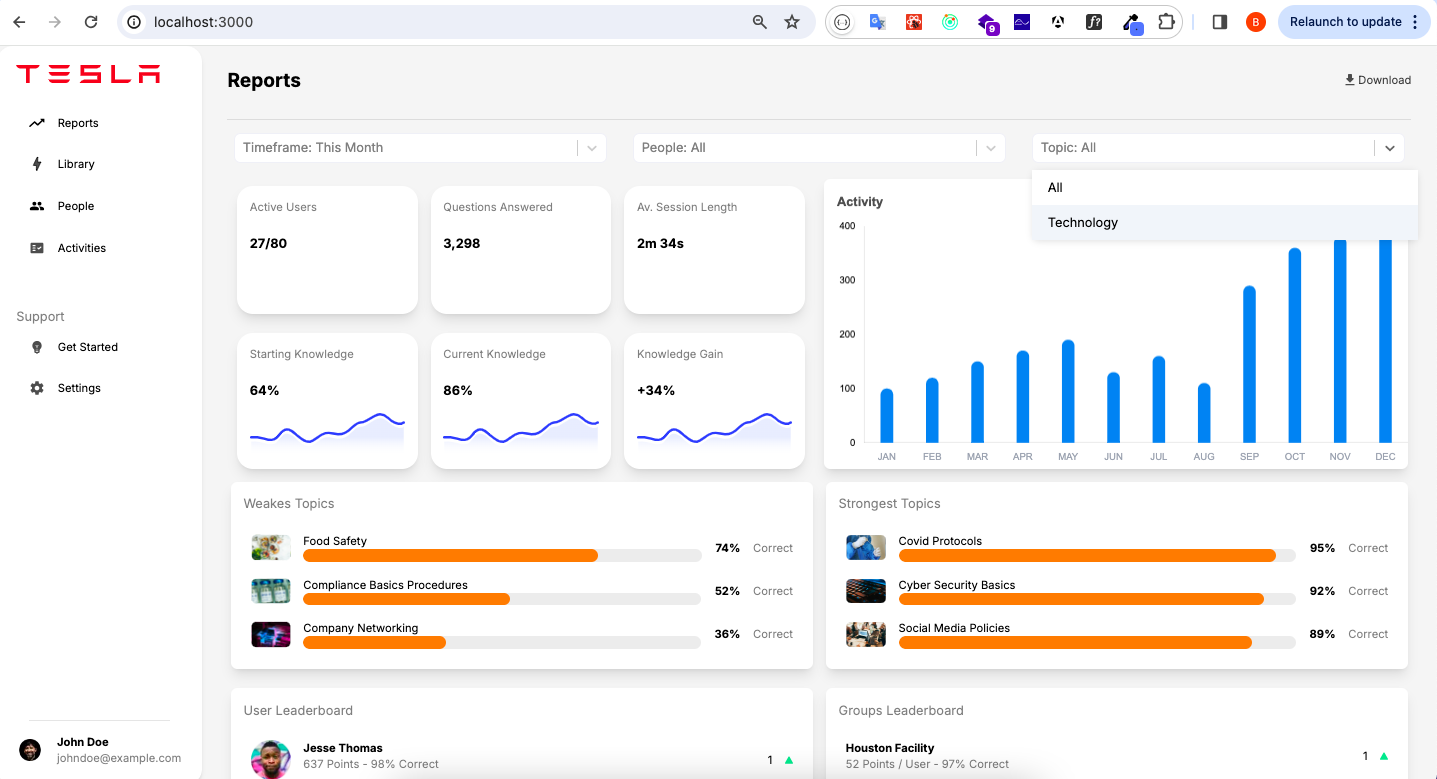
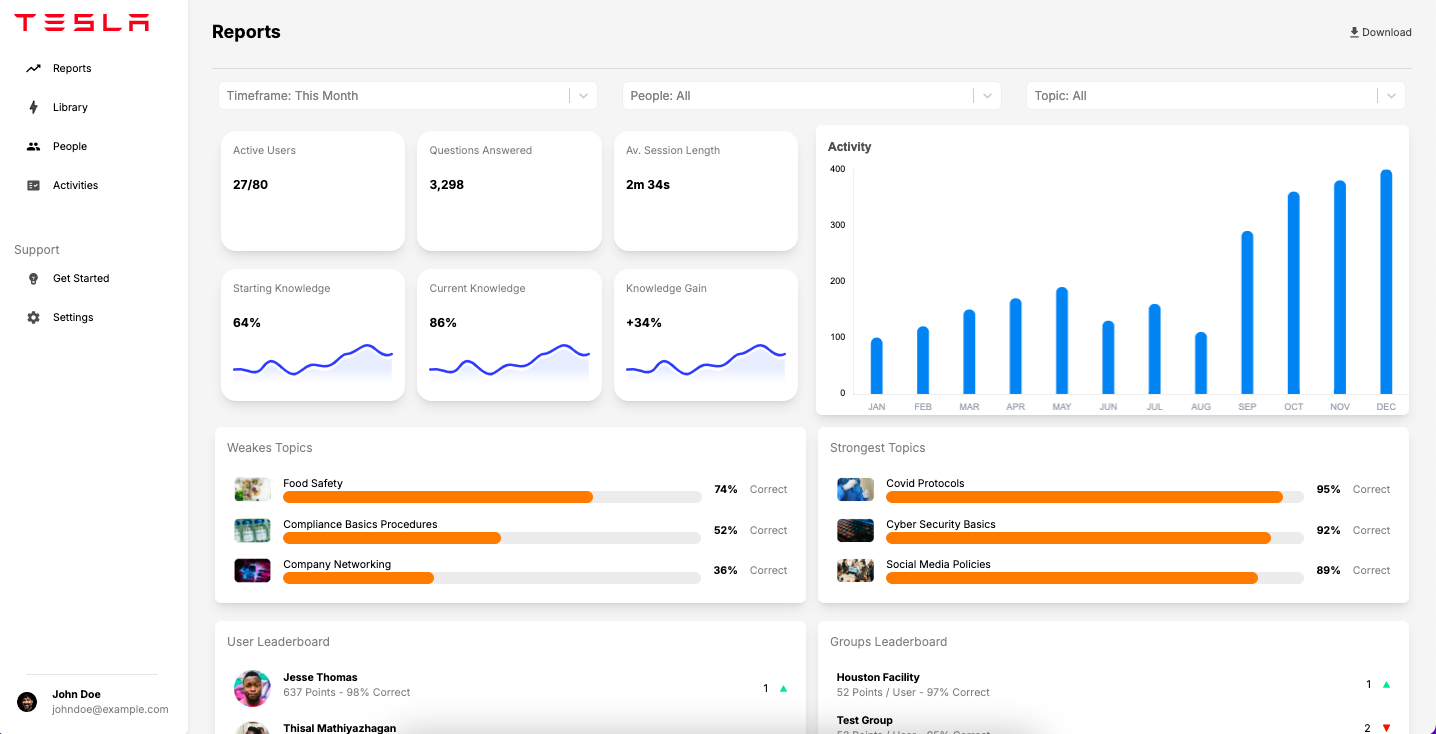
image changed, readme file updated

diff --git a/src/app/page.tsx b/src/app/page.tsx
@@ -5,7 +5,6 @@ import { components } from 'react-select';
 import Image from "next/image";
 import dynamic from 'next/dynamic';
 
-import Navbar from "../../components/navbar";
 import MiniCard from '../../components/mini-card';
 import Groups from '../../components/groups';
 import { BarChart } from '../../components/activity-chart';
@@ -25,6 +24,7 @@ export default function Home(this: any) {
   const [weakestTopics, setWeakestTopics] = useState<Topic[]>([]);
   const [weakestLoading, setWeakestLoading] = useState<boolean>(true);
   const [weakestError, setWeakestError] = useState<string | null>(null);
+  const [showMenu, setShowMenu] = useState(false);
 
   const options = [
     { value: 'lastSevenDays', label: 'Last 7 Days' },
@@ -133,11 +133,152 @@ export default function Home(this: any) {
     }
   };
 
+  useEffect(() => {
+    if (showMenu) {
+      document.body.style.overflow = 'hidden';
+      document.body.style.position = 'fixed';
+      document.body.style.width = '100%';
+      document.body.style.backgroundColor = 'gray'
+    } else {
+      document.body.style.overflow = 'auto';
+      document.body.style.position = '';
+      document.body.style.width = '';
+      document.body.style.backgroundColor = ''
+    }
+  }, [showMenu]);
+
   return (
     <main className="flex flex-col">
       <div className="flex min-h-screen">
         {/* Left NavBar */}
-        <Navbar />
+        <nav className="hidden md:block w-64 h-screen bg-white shadow-md fixed text-black rounded-lg">
+        <div className="flex flex-col align-start h-full justify-between p-6">
+          <div>
+            <Image src="/icon.svg" width={180} height={24} alt="Tesla" />
+            <ul className="mt-8 space-y-4 mb-8">
+              <li className="p-2 flex pl-4 rounded hover:bg-regal-blue/10 hover:text-regal-blue cursor-pointer">
+                <div className="flex">
+                  <img src="/icons/vector.svg" alt="Reports" className="h-5 w-5" />
+                  <a href="#" className="pl-4 text-sm">Reports</a>
+                </div>
+              </li>
+              <li className="p-2 flex pl-4 rounded hover:bg-regal-blue/10 hover:text-regal-blue cursor-pointer">
+                <div className="flex">
+                  <img src="/icons/quiz.svg" alt="Library" className="h-5 w-5" />
+                  <a href="#" className="pl-4 text-sm">Library</a>
+                </div>
+              </li>
+              <li className="p-2 flex pl-4 rounded hover:bg-regal-blue/10 hover:text-regal-blue cursor-pointer">
+                <div className="flex">
+                  <img src="/icons/people.svg" alt="People" className="h-5 w-5" />
+                  <a href="#" className="pl-4 text-sm">People</a>
+                </div>
+              </li>
+              <li className="p-2 flex pl-4 rounded hover:bg-regal-blue/10 hover:text-regal-blue cursor-pointer">
+                <div className="flex">
+                  <img src="/icons/assignments.svg" alt="Activities" className="h-5 w-5" />
+                  <a href="#" className="pl-4 text-sm">Activities</a>
+                </div>
+              </li>
+            </ul>
+
+            <h5 className="pt-6 text-black/50">Support</h5>
+            <ul className="mt-2 space-y-4">
+              <li className="p-2 flex pl-4 rounded hover:bg-regal-blue/10 hover:text-regal-blue cursor-pointer">
+                <div className="flex">
+                  <img src="/icons/bulb.svg" alt="Get Started" className="h-5 w-5" />
+                  <a href="#" className="pl-4 text-sm">Get Started</a>
+                </div>
+              </li>
+              <li className="p-2 flex pl-4 rounded hover:bg-regal-blue/10 hover:text-regal-blue cursor-pointer">
+                <div className="flex">
+                  <img src="/icons/settings.svg" alt="Settings" className="h-5 w-5" />
+                  <a href="#" className="pl-4 text-sm">Settings</a>
+                </div>
+              </li>
+            </ul>
+          </div>
+
+          <div>
+            <div className="p-4">
+              <div className="border-b border-black/10"></div>
+            </div>
+            <div className="flex items-center space-x-4">
+              <Image src="/photo.png" width={35} height={35} className="rounded-full px-1" alt="Profile" />
+              <div className="text-sm">
+                <h3 className="font-bold">John Doe</h3>
+                <p className="text-black/50">johndoe@example.com</p>
+              </div>
+            </div>
+          </div>
+        </div>
+        </nav>
+
+        {/* Mobile Navbar */}
+        <nav className="block md:hidden bg-gray-800 text-white p-1">
+          <button
+            className="p-2 focus:outline-none"
+            onClick={() => setShowMenu(!showMenu)}>
+            <svg
+              className="w-6 h-6"
+              fill="none"
+              stroke="currentColor"
+              viewBox="0 0 24 24"
+              xmlns="http://www.w3.org/2000/svg"
+            >
+              <path
+                strokeLinecap="round"
+                strokeLinejoin="round"
+                strokeWidth="2"
+                d="M4 6h16M4 12h16m-7 6h7"
+              ></path>
+            </svg>
+          </button>
+        </nav>
+
+        {/* Mobile Menu */}
+          {showMenu && (
+          <div className="bg-white text-black p-4 fixed inset-0 z-20 md:hidden h-full" style={{ 'zIndex': 20 }}>
+            <div className="flex flex-col space-y-4">
+              <button
+                className="p-2 focus:outline-none self-end"
+                onClick={() => setShowMenu(false)}>
+                <svg
+                  className="w-6 h-6"
+                  fill="none"
+                  stroke="currentColor"
+                  viewBox="0 0 24 24"
+                  xmlns="http://www.w3.org/2000/svg"
+                >
+                  <path
+                    strokeLinecap="round"
+                    strokeLinejoin="round"
+                    strokeWidth="2"
+                    d="M6 18L18 6M6 6l12 12"
+                  ></path>
+                </svg>
+              </button>
+              <a href="#" className="p-2 text-sm block hover:bg-gray-200 rounded">
+                Reports
+              </a>
+              <a href="#" className="p-2 text-sm block hover:bg-gray-200 rounded">
+                Library
+              </a>
+              <a href="#" className="p-2 text-sm block hover:bg-gray-200 rounded">
+                People
+              </a>
+              <a href="#" className="p-2 text-sm block hover:bg-gray-200 rounded">
+                Activities
+              </a>
+              <a href="#" className="p-2 text-sm block hover:bg-gray-200 rounded">
+                Get Started
+              </a>
+              <a href="#" className="p-2 text-sm block hover:bg-gray-200 rounded">
+                Settings
+              </a>
+            </div>
+          </div>
+        )}
 
         {/* Main Content */}
         <main className="md:ml-64 flex-1 p-2 md:p-8">

diff --git a/README.md b/README.md
@@ -1,11 +1,11 @@
-## About
+## Proje Hakkında
 Nextjs, Tailwind ve chartjs kullanılarak hazırlanmış, raporların, kullanıcı ve ekiplerin puan tablosunun, makale istatistikleri ve daha fazlasının bulunduğu bir dashboard projesi.
 
 Projede Nextjs, ui için Tailwind, grafikler için Chartjs gibi teknolojiler kullanıldı. Veriler için Nextjs api'si kullanıldı.
 
 ![Tesla Dashboard Preview](public/dashboard-preview.png)
 
-## Installation
+## Kurulum
 - npm'in kurulu olduğunu varsayarak, projeyi bilgisayarınıza alın;
 ```bash
   git clone https://github.com/busradogann/tesla-dashboard.git
@@ -26,6 +26,6 @@ Projede Nextjs, ui için Tailwind, grafikler için Chartjs gibi teknolojiler kul
   npm run dev
 ```
 
-## NOTE
+## Not
 - Node.js versiyon: Node.js'nin uyumlu bir sürümünü (tercihen 16.x veya üstü) kullandığınızdan emin olun.
 - Next.js versiyon: Proje Next.js 14.2.5 sürümüyle oluşturulmuştur.
